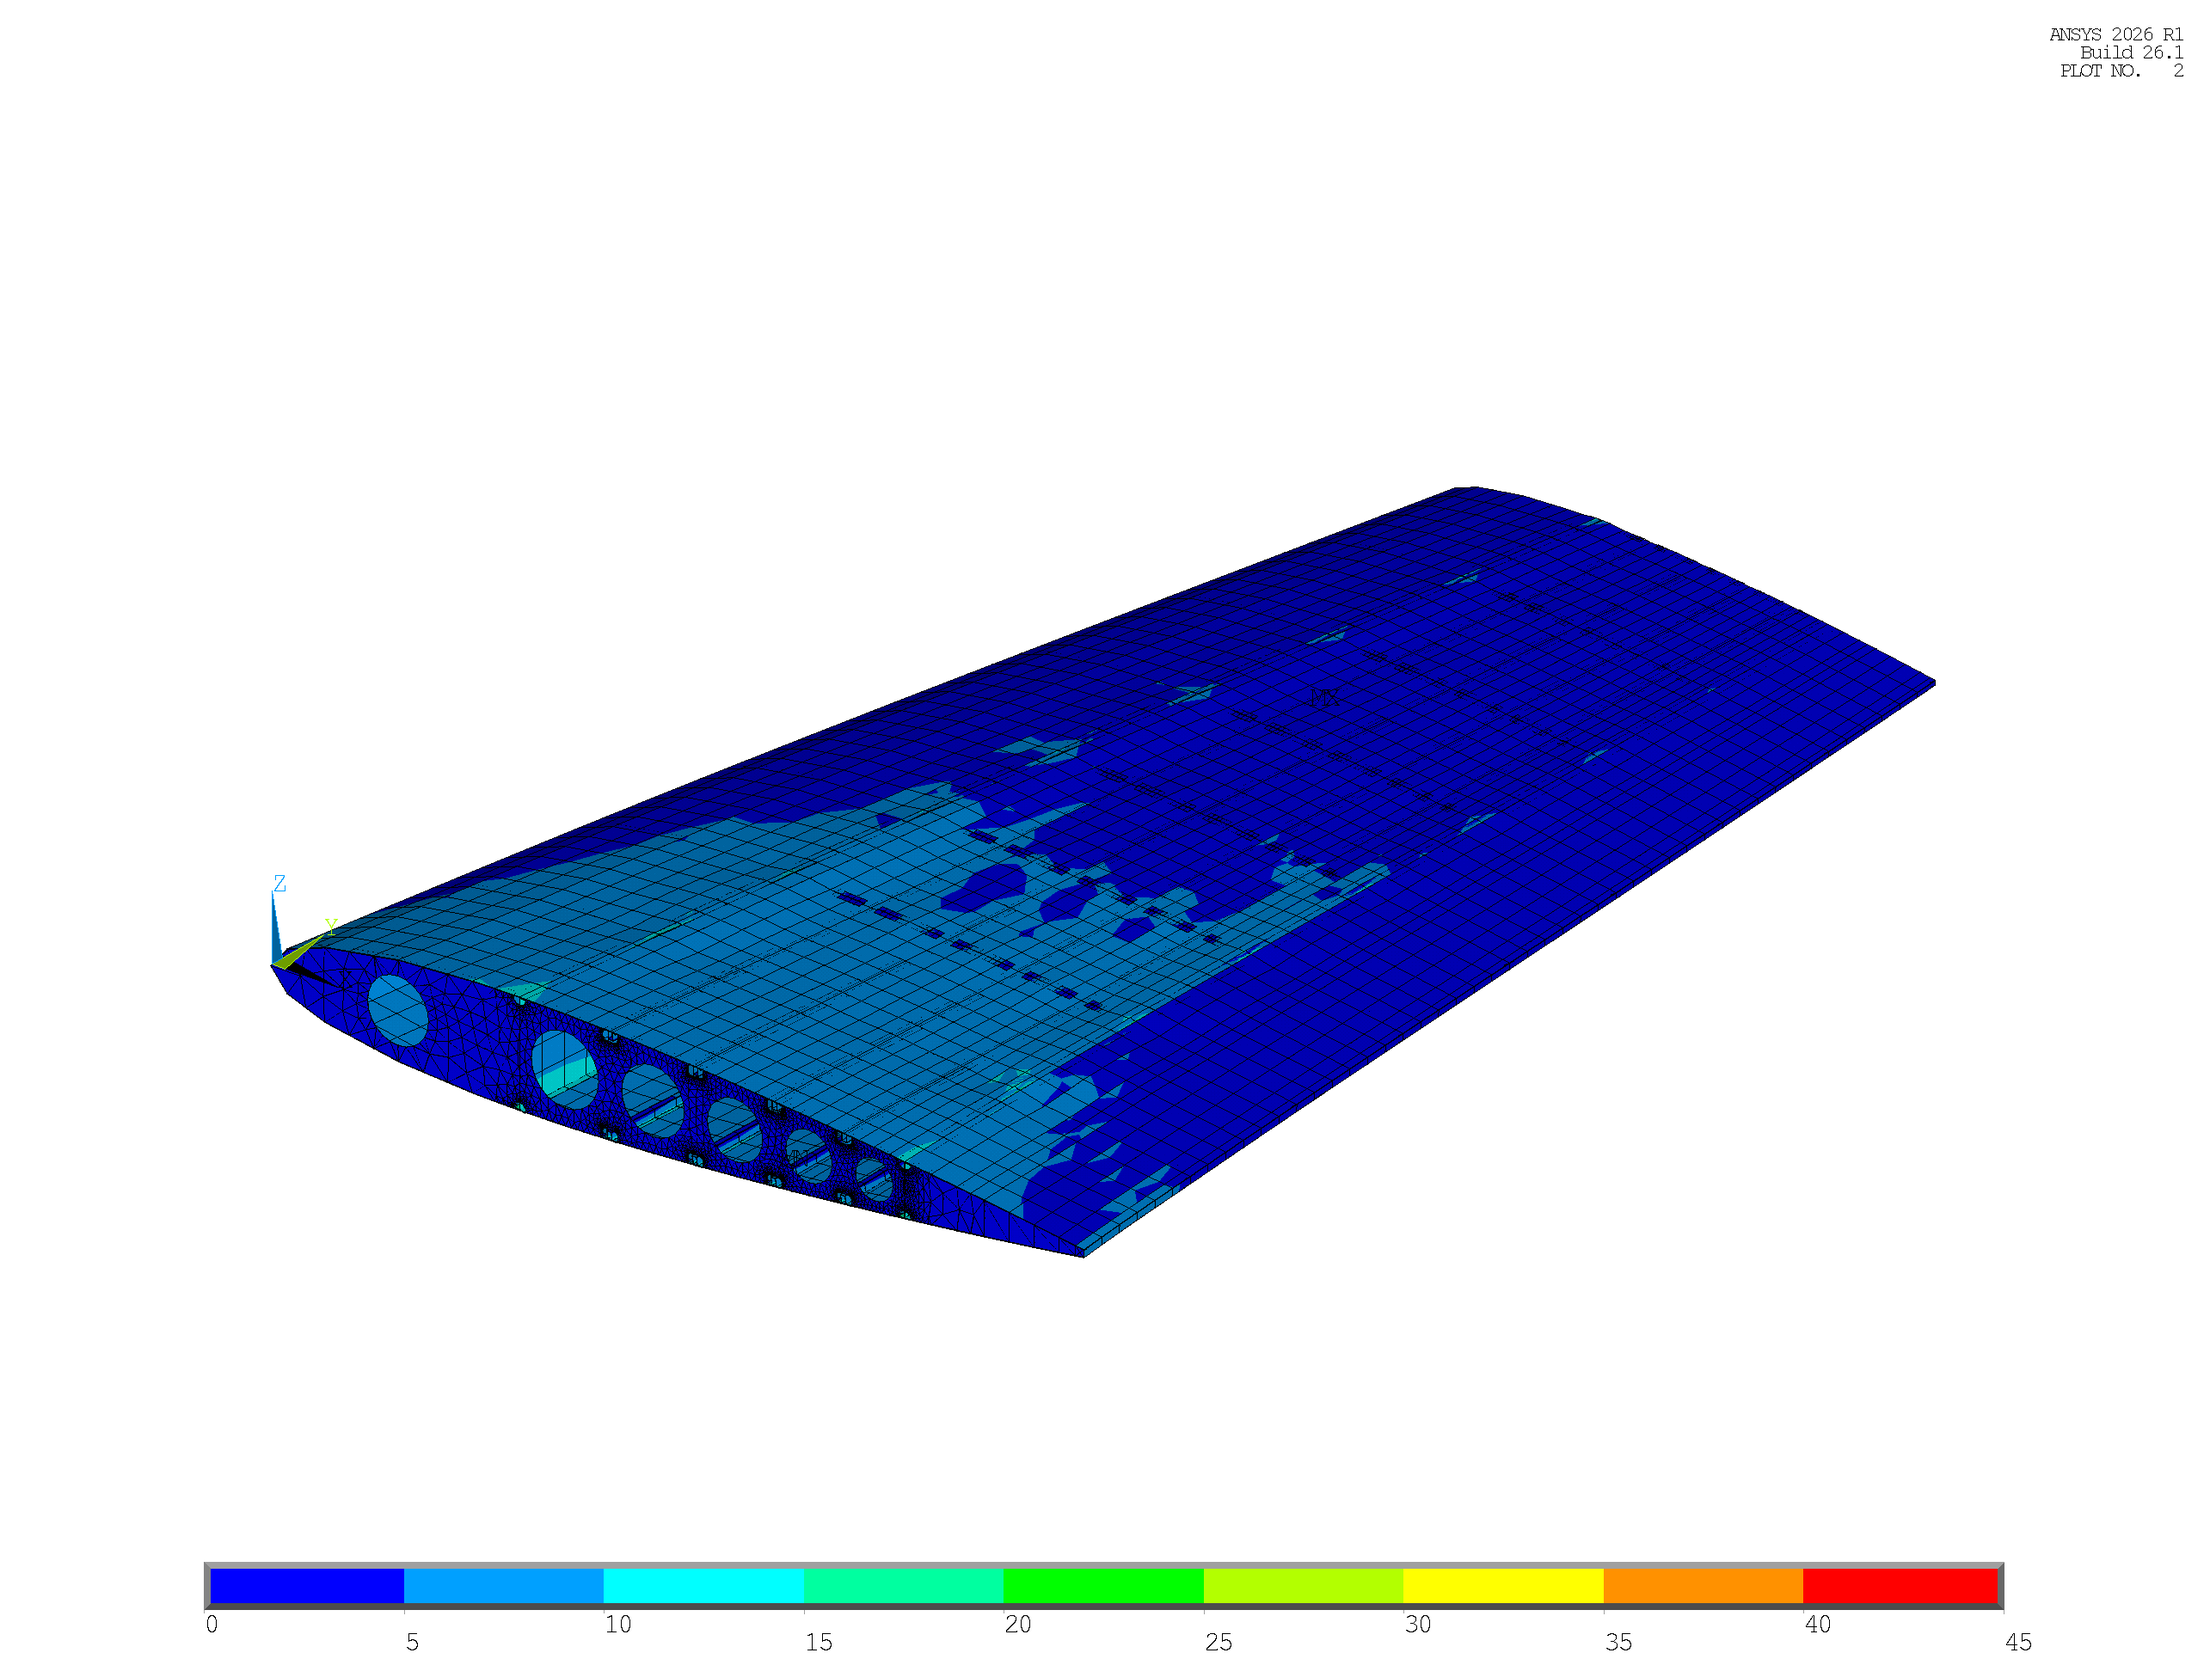
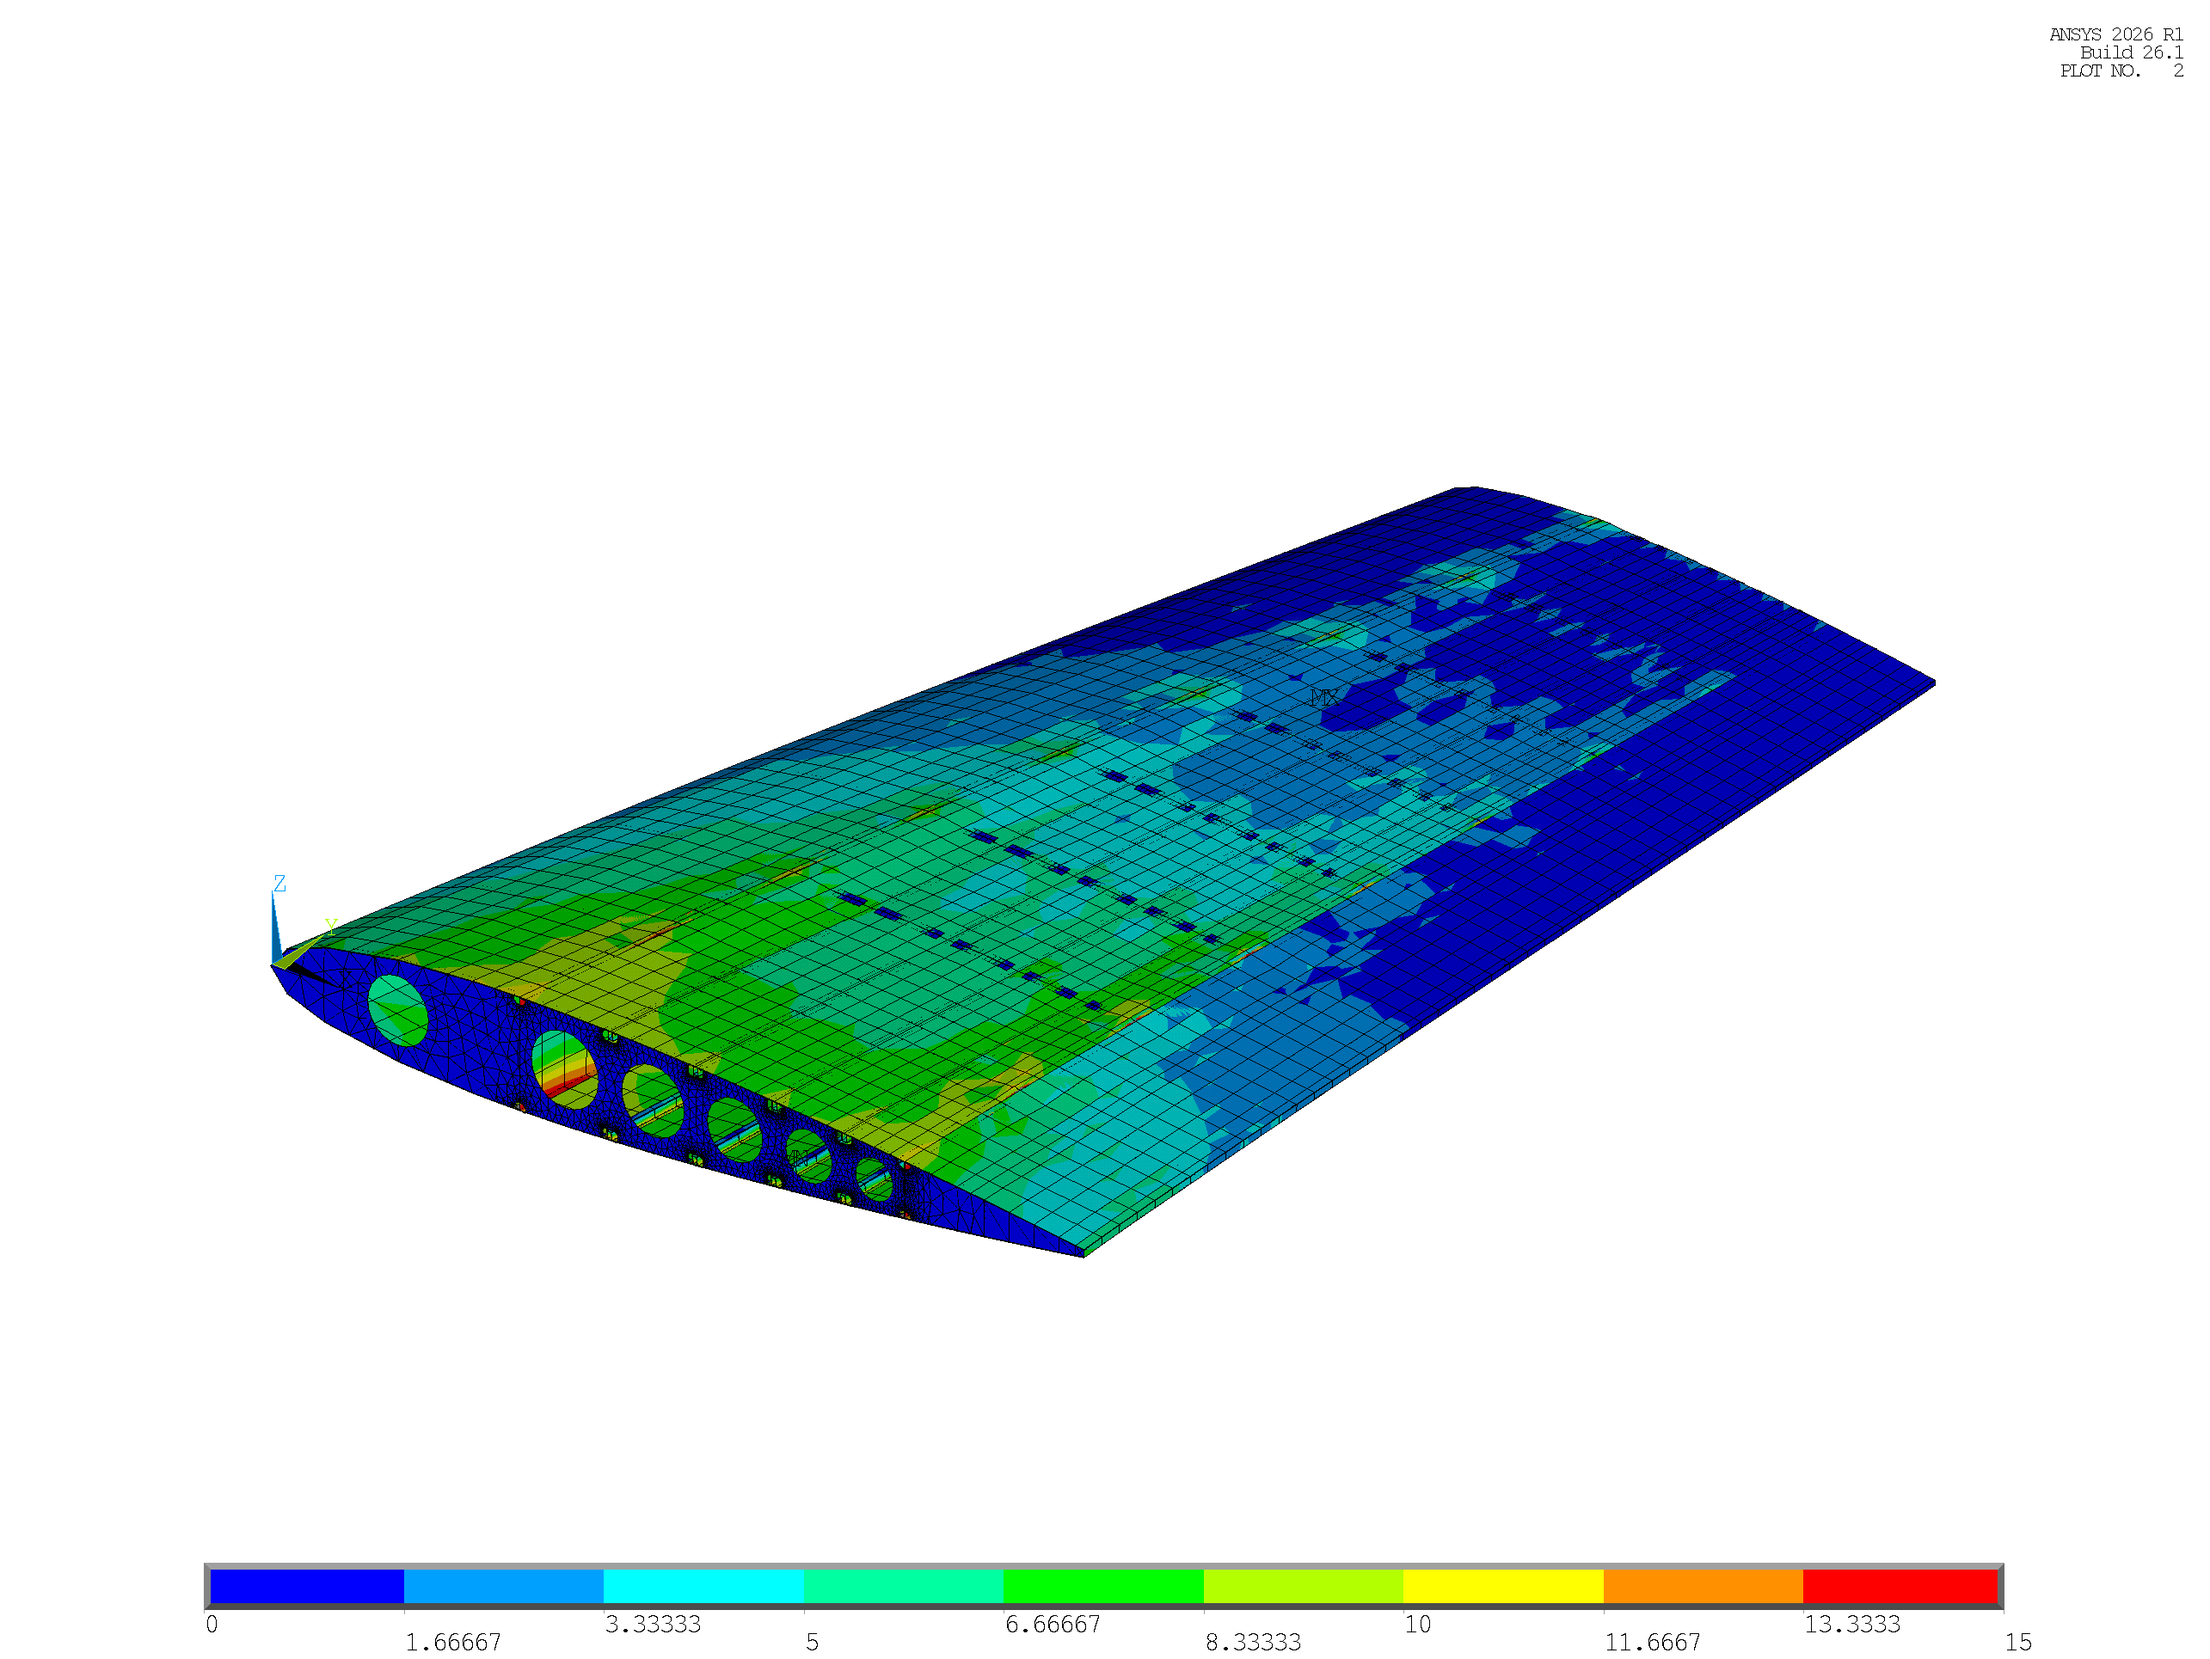
feat(m3): unify Von Mises stress contour scale to 0-15 MPa across all report visuals

Changed region(s): [[0.1245, 0.3109, 0.7782, 0.7461]]

diff --git a/optimization/README.md b/optimization/README.md
@@ -184,10 +184,14 @@ To match the clean presentation standard established in `modal_analysis/` and `l
 - **Bottom Horizontal Contour Bar (`/UDOC, 1, CNTR, BOTTOM`):** Clean, centered horizontal color scale at the bottom of the image for optimal embedding in reports and presentation slides.
 - **Suppressed Right-Hand Legend Block (`/PLOPTS, LEG1, 0`, `LEG2, 0`, `INFO, 3`, `TITLE, 0`, `LOGO, 0`):** Removes the default ANSYS PowerGraphics banner, date, and sidebar text to maintain a modern, distraction-free visual presentation.
 - **Canonical Aerospace Perspective (`/VIEW, 1, 0.55, -0.70, 0.45` with `/VUP, 1, Z`):** Elevates the root carry-through box, stringer mouseholes, and compression upper skin into foreground perspective.
+- **Unified 1:1 Comparison Scales Across All Configurations:**
+  - **Deflection (DMX):** Standardized to **$0.0 - 7.2\text{ mm}$** (Step $0.8\text{ mm}$) for all configs.
+  - **Von Mises Stress (SEQV):** Standardized to **$0.0 - 15.0\text{ MPa}$** (High-Contrast Skin Scale) for all configs, enabling direct visual comparison of stress flows while isolating extreme rib flange concentrations ($> 15\text{ MPa}$) in the top red color band.
+  - **Buckling Mode 1:** Normalized to **$0.0 - 1.0$** for all configs.
 
 > **Directory Layout:**
-> - 📁 **Report-Ready Visuals (Bottom Bar, No Right Legend):** [`optimization/visual_opt/for_report/`](visual_opt/for_report/) and root [`optimization/visual_opt/`](visual_opt/)
-> - 📁 **Full PowerGraphics Legend Archive (With Sidebar):** [`optimization/visual_opt/with_powergraph/`](visual_opt/with_powergraph/)
+> - 📁 **Report-Ready Visuals (Bottom Bar, Unified 15 MPa / 7.2 mm, No Right Legend):** [`optimization/visual_opt/for_report/`](visual_opt/for_report/) and root [`optimization/visual_opt/`](visual_opt/)
+> - 📁 **Full-Scale PowerGraphics Legend Archive (With Sidebar):** [`optimization/visual_opt/with_powergraph/`](visual_opt/with_powergraph/)
 
 ---
 
@@ -196,13 +200,13 @@ To match the clean presentation standard established in `modal_analysis/` and `l
 ````carousel
 ![Config 1 Optimized Deflection (Report)](visual_opt/for_report/cfg1_opt_regime1a_dmx.png)
 <!-- slide -->
-![Config 1 Optimized Stress (Report)](visual_opt/for_report/cfg1_opt_regime1a_seqv.png)
+![Config 1 Optimized Stress (Report, 0 to 15 MPa)](visual_opt/for_report/cfg1_opt_regime1a_seqv.png)
 <!-- slide -->
 ![Config 1 Buckling Mode 1 (Report)](visual_opt/for_report/cfg1_buckle_mode1.png)
 ````
 
 - [Config 1 Deflection (Report, DMX 0 to 7.2 mm)](visual_opt/for_report/cfg1_opt_regime1a_dmx.png) | [With PowerGraphics](visual_opt/with_powergraph/cfg1_opt_regime1a_dmx.png): Cantilever bending with maximum tip deflection of $6.77\text{ mm}$.
-- [Config 1 Stress (Report, SEQV 0 to 30 MPa)](visual_opt/for_report/cfg1_opt_regime1a_seqv.png) | [With PowerGraphics](visual_opt/with_powergraph/cfg1_opt_regime1a_seqv.png): Peak stress contained in root interior rib flanges ($\sigma_{\max} = 29.94\text{ MPa}$).
+- [Config 1 Stress (Report, Unified SEQV 0 to 15.0 MPa)](visual_opt/for_report/cfg1_opt_regime1a_seqv.png) | [With PowerGraphics (Full 0 to 30 MPa)](visual_opt/with_powergraph/cfg1_opt_regime1a_seqv.png): High-contrast skin stress distribution ($\sigma_{\text{skin}} \approx 13.16\text{ MPa}$, rib flange peak $29.94\text{ MPa}$ highlighted in red).
 - [Config 1 Linear Buckling Mode 1 (Report)](visual_opt/for_report/cfg1_buckle_mode1.png) | [With PowerGraphics](visual_opt/with_powergraph/cfg1_buckle_mode1.png): First buckling eigenvalue $|\lambda_1| = 2.4891$ ($MS = +0.66$).
 
 ---
@@ -212,13 +216,13 @@ To match the clean presentation standard established in `modal_analysis/` and `l
 ````carousel
 ![Config 2 Optimized Deflection (Report)](visual_opt/for_report/cfg2_opt_regime1a_dmx.png)
 <!-- slide -->
-![Config 2 Optimized Stress (Report)](visual_opt/for_report/cfg2_opt_regime1a_seqv.png)
+![Config 2 Optimized Stress (Report, 0 to 15 MPa)](visual_opt/for_report/cfg2_opt_regime1a_seqv.png)
 <!-- slide -->
 ![Config 2 Buckling Mode 1 (Report)](visual_opt/for_report/cfg2_buckle_mode1.png)
 ````
 
 - [Config 2 Deflection (Report, DMX 0 to 7.2 mm)](visual_opt/for_report/cfg2_opt_regime1a_dmx.png) | [With PowerGraphics](visual_opt/with_powergraph/cfg2_opt_regime1a_dmx.png): Controlled tip deflection of $6.77\text{ mm}$ matching Config 1.
-- [Config 2 Stress (Report, SEQV 0 to 45 MPa)](visual_opt/for_report/cfg2_opt_regime1a_seqv.png) | [With PowerGraphics](visual_opt/with_powergraph/cfg2_opt_regime1a_seqv.png): Peak stress of $44.64\text{ MPa}$ at root interior rib flange.
+- [Config 2 Stress (Report, Unified SEQV 0 to 15.0 MPa)](visual_opt/for_report/cfg2_opt_regime1a_seqv.png) | [With PowerGraphics (Full 0 to 45 MPa)](visual_opt/with_powergraph/cfg2_opt_regime1a_seqv.png): High-contrast skin stress gradient ($\sigma_{\text{skin}} \approx 20.89\text{ MPa}$, rib flange peak $44.64\text{ MPa}$ highlighted in red).
 - [Config 2 Linear Buckling Mode 1 (Report)](visual_opt/for_report/cfg2_buckle_mode1.png) | [With PowerGraphics](visual_opt/with_powergraph/cfg2_buckle_mode1.png): First buckling eigenvalue $|\lambda_1| = 2.2074$ ($MS = +0.47$).
 
 ---
@@ -230,14 +234,14 @@ To match the clean presentation standard established in `modal_analysis/` and `l
 <!-- slide -->
 ![Config 3 Optimized Deflection (Report)](visual_opt/for_report/cfg3_opt_regime1a_dmx.png)
 <!-- slide -->
-![Config 3 Optimized Stress (Report)](visual_opt/for_report/cfg3_opt_regime1a_seqv.png)
+![Config 3 Optimized Stress (Report, 0 to 15 MPa)](visual_opt/for_report/cfg3_opt_regime1a_seqv.png)
 <!-- slide -->
 ![Config 3 Optimized Buckling Mode 1 (Report)](visual_opt/for_report/cfg3_opt_regime1a_buckle_mode1.png)
 ````
 
 - [Config 3 Baseline Buckling Mode 1 (Report)](visual_opt/for_report/cfg3_baseline_buckle_mode1.png) | [With PowerGraphics](visual_opt/with_powergraph/cfg3_baseline_buckle_mode1.png): **Baseline Deficit:** $|\lambda_1| = 1.3257 < 1.50$ ($MS = -0.12$), showing localized compressive skin bay buckling.
 - [Config 3 Optimized Deflection (Report, DMX 0 to 7.2 mm)](visual_opt/for_report/cfg3_opt_regime1a_dmx.png) | [With PowerGraphics](visual_opt/with_powergraph/cfg3_opt_regime1a_dmx.png): Optimized tip deflection of $6.74\text{ mm}$ ($U_Z = -6.69\text{ mm}$).
-- [Config 3 Optimized Stress (Report, SEQV 0 to 55 MPa)](visual_opt/for_report/cfg3_opt_regime1a_seqv.png) | [With PowerGraphics](visual_opt/with_powergraph/cfg3_opt_regime1a_seqv.png): Peak stress of $51.13\text{ MPa}$ at root interior rib flange ($\text{FS} = 9.39$).
+- [Config 3 Optimized Stress (Report, Unified SEQV 0 to 15.0 MPa)](visual_opt/for_report/cfg3_opt_regime1a_seqv.png) | [With PowerGraphics (Full 0 to 55 MPa)](visual_opt/with_powergraph/cfg3_opt_regime1a_seqv.png): High-contrast skin stress gradient ($\sigma_{\text{skin}} \approx 26.55\text{ MPa}$, rib flange peak $51.13\text{ MPa}$ highlighted in red, $\text{FS} = 9.39$).
 - [Config 3 Optimized Buckling Mode 1 (Report)](visual_opt/for_report/cfg3_opt_regime1a_buckle_mode1.png) | [With PowerGraphics](visual_opt/with_powergraph/cfg3_opt_regime1a_buckle_mode1.png): **Certified Pass:** $|\lambda_1| = 1.6012 \ge 1.50$ ($MS = +0.07$), buckling resistance restored by skin reinforcement.
 
 ---
